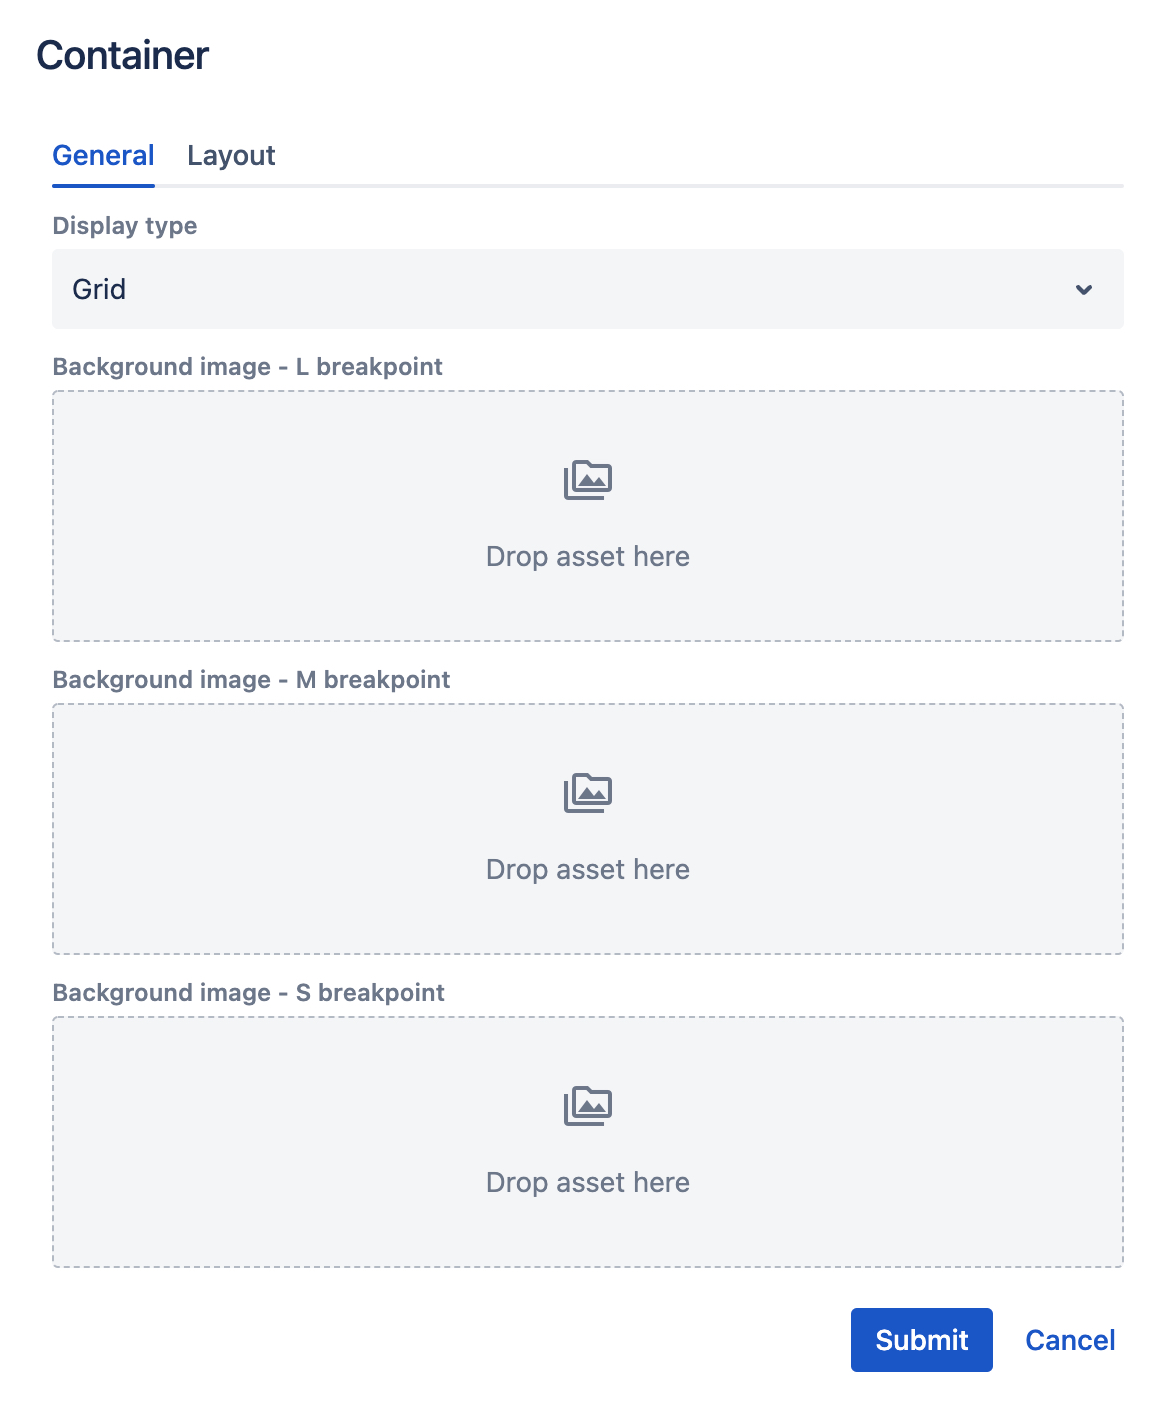
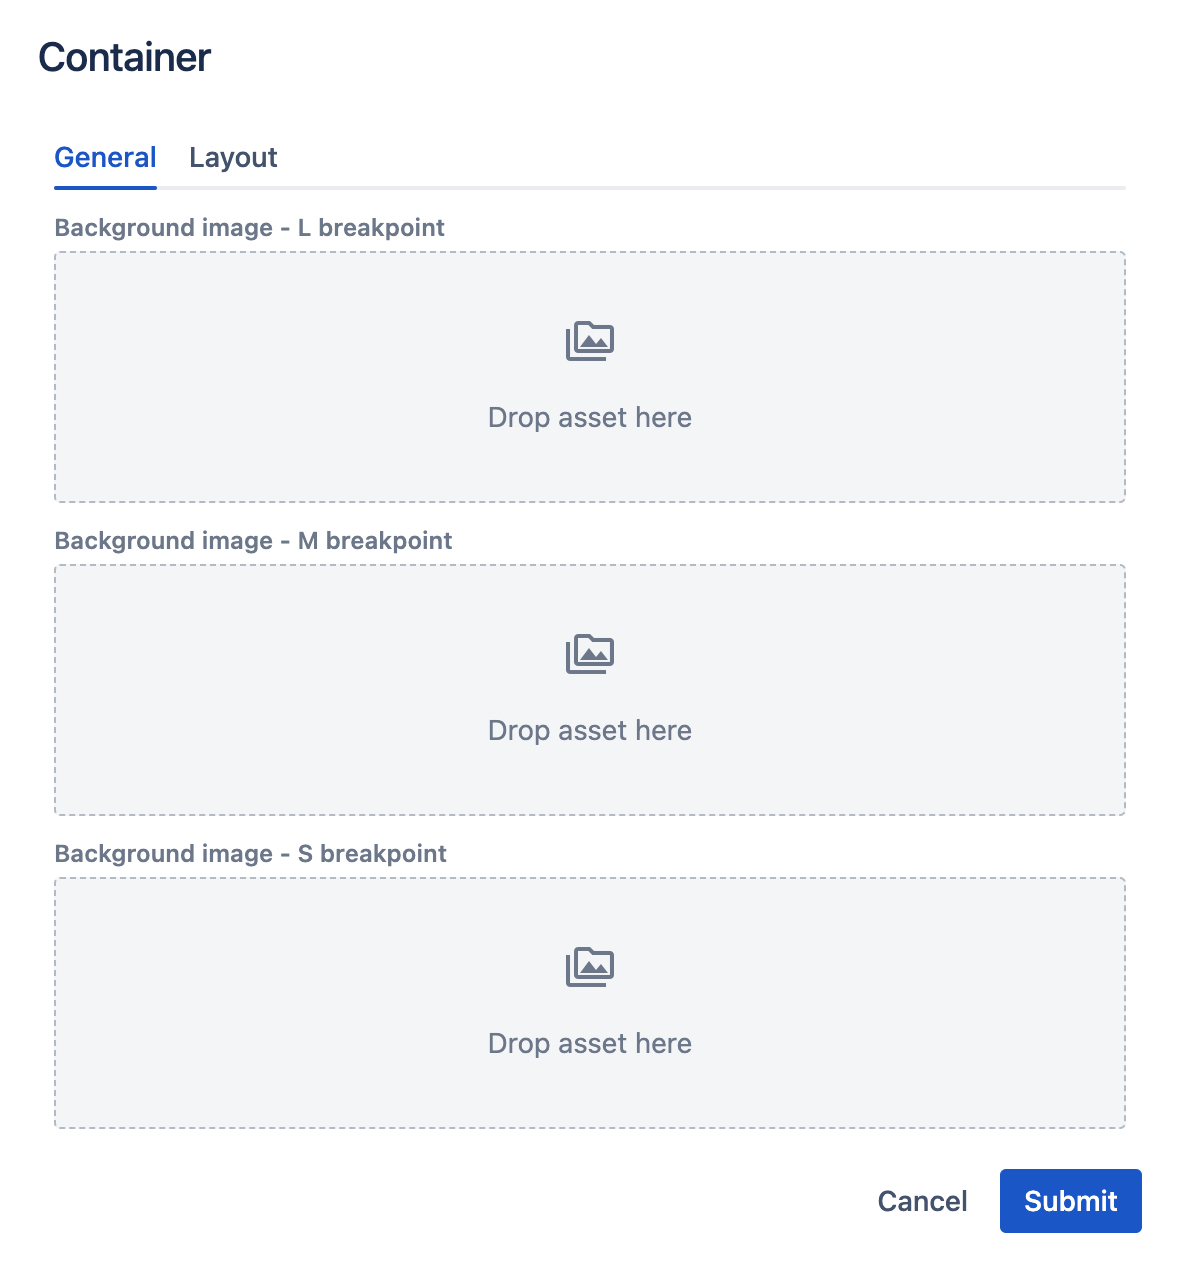
update container (remove display type)

diff --git a/docs/guides/authoring/howlite/container/index.md b/docs/guides/authoring/howlite/container/index.md
@@ -11,7 +11,7 @@ If you drag & drop a single Page Section to the page, you will see a default pla
 </p>
 
 ## Multiple columns layouts
-By using containers inside a page section, you can achieve multiple columns layouts. To see this in action, you can drag & drop the **4 Columns** predefined layout from the "Empty Sections" group.
+By using containers inside a page section, you can achieve multiple columns layouts. To see this in action, you can drag & drop the **4 Columns** predefined layout from the "Empty Sections" group. (See the [layouts]('../layouts') page for details regarding predefined sections)
 
 This layout consists of a Page Section component with 4 container components inside. Each container is resized to use 3 out of 12 columns. For resize options description please see the [grid](../grid) page.
 
@@ -28,8 +28,5 @@ Click <img class="image--inline" src="../images/edit-icon.jpg" alt="Edit icon"> 
     <img class="image--with-border" src="./dialog.jpg" alt="Container - general properties" width="500px">
 </p>
 
-- the **Display Type** controls children components' alignment
-    - By default the **Grid** option is selected, which means that all children components are aligned to the grid and their grid settings will be respected.
-    - If you change the Display type to **Inline** - the grid settings of children components will be ignored, and all items will align in a row (using CSS flex property).
 - you can drag & drop an image from the left assets panel, to add a background image (for each [breakpoint](../grid#breakpoints-definition) separately).
     - each breakpoint's asset will be rendered on this breakpoint only. For example, if you leave M breakpoint image blank, nothing will be rendered on tablet resolutions.
